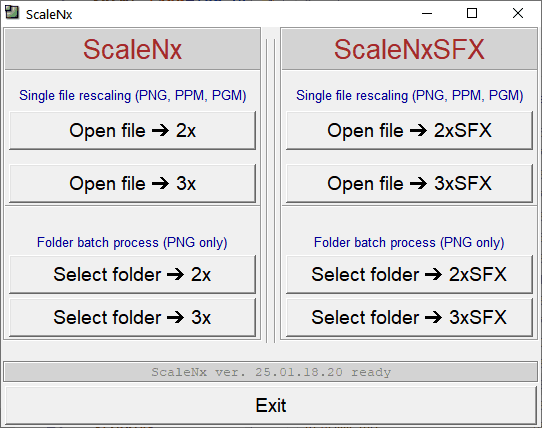
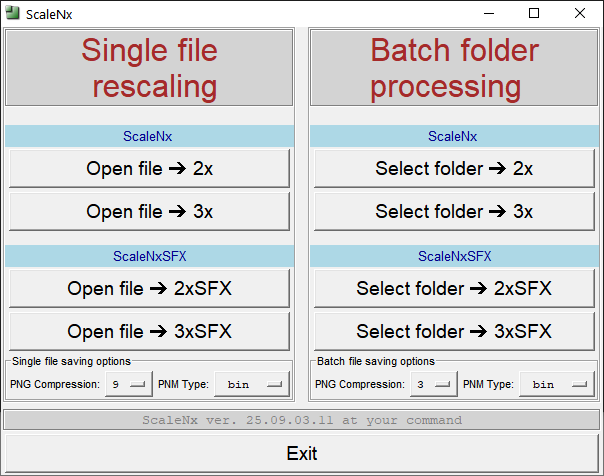
update updated

diff --git a/scalenx.html b/scalenx.html
@@ -20,14 +20,14 @@
         <h1 class='darkbg'>ScaleNx</h1>
         <h2 class='lightbg'>Scale2x, Scale3x, Scale2xSFX and Scale3xSFX image scaling in pure Python</h2>
         <div class='lightbg justborder'>
-            <p><a href='https://www.scale2x.it/algorithm'>Scale2x and Scale3x algorithms</a>Scale2x and Scale3x algorithms (sometimes referred to as AdvMAME2x and AdvMAME3x) were initially developed by <a href='https://www.scale2x.it/'>Andrea Mazzoleni</a> for scaling up small pixel graphics like game sprites and icons without introducing new colors and blurring contrast edges. That's what it was invented for, and nothing else.</p>
+            <p><a href='https://www.scale2x.it/algorithm'>Scale2x and Scale3x algorithms</a> (sometimes referred to as AdvMAME2x and AdvMAME3x) were initially developed by <a href='https://www.scale2x.it/'>Andrea Mazzoleni</a> for scaling up small pixel graphics like game sprites and icons without introducing new colors and blurring contrast edges. That's what it was invented for, and nothing else.</p>
             <p>Later on, <a href='https://web.archive.org/web/20160527015550/https://libretro.com/forums/archive/index.php?t-1655.html'>Scale2xSFX and Scale3xSFX</a> were introduced for the same goal, providing different diagonals rendering and eliminating artifacts initial ScaleNx produce on some patterns.</p>
             <div class='center'><img src='imgscalenx\diag3sfx.png' width='512' height='270' class='justborder center' style='padding: 1px;'
                 alt='Scale3xSFX example' title='Example of Scale3xSFX run three times'>
                 <p class='center'>Example of consecutive upscaling with Scale3xSFX trice.</p><p class='center small'>As can be seen above, Scale3xSFX keeps image sharp and tries to keep lines straight and accurate.<br>Keep in mind that image was increased 3*3*3 = 27&nbsp;times, meaning number of pixels increased 729&nbsp;times,<br>that is, almost all the resulting pixels are artificial.</p>
             </div>
             <p>However, it appears that ScaleNx may be successfully misused for absolutely different task: scaling up low-res text scans before OCR, and drawings before tracing them to vectors.</p>
-            <a href='https://github.com/Dnyarri/PixelArtScaling'><img src='imgscalenx/guismall.png' height='214' width='271' alt='ScaleNx module and program at GitHub' title='Main ScaleNx application' class='floatright'></a>
+            <a href='https://github.com/Dnyarri/PixelArtScaling'><img src='imgscalenx/guismall.png' height='238' width='302' alt='ScaleNx module and program at GitHub' title='Main ScaleNx application' class='floatright'></a>
             <p>With that in mind I created pure Python implementation of ScaleNx algorithms, which can be <a href='https://github.com/Dnyarri/PixelArtScaling' class='git'>downloaded from GitHub</a>. By saying &laquo;pure Python&raquo; I mean it - it doesn't even use bytearrays, only lists of lists of lists. Consider it a spiritual practice or whatever. You can download it as fully functional application, as well as &laquo;ScaleNx&raquo; module to import into your software and/or just to laugh at it.</p>
             <p>ScaleNx package includes suitable human-ready GUI shell, not surprisingly called ScaleNxGUI.py, providing easy launch of single PNG, PPM or PGM (PBM support is limited to reading only, result may be saved to another format like PNG) file rescaling procedure or batch rescaling of all images (in forementioned formats) in chosen folder and subfolders. Note that batch processing uses asynchronous multiprocessing, greatly reducing run time for a price of devouring next to 100% of CPU power, taking RAM for several images simultaneously, and rendering GUI rather unresponsive, looking like it hung up. Don't worry, it can't hang up, it can only possibly crash when trying to process really huge images (although for most recent version I yet have to see it).</p>
             <p>Needless to say, PNG support in ScaleNxGUI is provided with <a href='https://gitlab.com/drj11/pypng'>PyPNG</a>, and PPM and PGM support with <a href='https://pypi.org/project/PyPNM/'>PyPNM</a>; both are pure Python modules, thus making the whole program quite cross-platform. There is even Python&nbsp;3.4-compatible build (see below), successfully tested under Windows&nbsp;XP.</p>
@@ -58,11 +58,11 @@
             </table>
         </div>
         <div class='lightbg justborder cols512'>
-            <p><span class='red'><b>Update:</b></span> - In <a href='https://github.com/Dnyarri/PixelArtScaling/releases/tag/25.09.03.11'>main ScaleNx version&nbsp;25.09.03.11</a> and it's Python&nbsp;3.4 companion <a href='https://github.com/Dnyarri/PixelArtScaling/releases/tag/25.09.03.34'>version&nbsp;25.09.03.34</a> PNG compression and PPM/PGM type (binary or ascii) settings may be configured via GUI option menus and saved by Ctrl+Clicking on info bar as JSON "scalenx.ini" file in your user directory (directory address get copied to clipboard so you may paste it into your file manager and instantly get right to this directory, wherever it is). File may be edited with any text editor, and loaded back to ScaleNc with Alt+Click to info bar (for toads in dementia all these hints appear on mouse over info bar).</p>
+            <p><span class='red'><b>Update:</b></span> - In <a href='https://github.com/Dnyarri/PixelArtScaling/releases/tag/25.09.03.11'>main ScaleNx version&nbsp;25.09.03.11</a> and it's Python&nbsp;3.4 companion <a href='https://github.com/Dnyarri/PixelArtScaling/releases/tag/25.09.03.34'>version&nbsp;25.09.03.34</a> PNG compression and PPM/PGM type (binary or ascii) settings may be configured via GUI option menus and saved by Ctrl+Clicking on info bar as JSON "scalenx.ini" file in your user directory (directory address get copied to clipboard so you may paste it into your file manager and instantly get right to this directory, wherever it is). File may be edited with any text editor, and loaded back to ScaleNc with Alt+Click to info bar (for toads and lesser species in dementia all these hints appear on mouse over info bar).</p>
             <p>Speaking of dementia, version 25.08.22.34 was intentionally downgraded from <i>pathlib</i> to <i>os</i>, making it even more compatible with old Python version. Now you can read the Source and see how ladies were laid and recursive directory reading was made before Path.rglob was introduced.</p>
-            <p>Both <i>main</i> and <i>.py34</i> versions are relinked with newest <a href='pypnm.html'>PyPNM version&nbsp;2</a>, providing considerable memory usage saving while working with PPM and PGM files.</p>
-            <p><span class='red'><b>Previously on ScaleNx:</b></span>Version 25.02.09.18 of main program have no change in ScaleNx module but is relinked with updated version of <a href='https://dnyarri.github.io/pypnm.html'>PyPNM</a> module providing per row file writing, thus reducing memory usage; <a href='https://gitlab.com/drj11/pypng'>PyPNG</a> data exchange changed to row generators thus making memory usage as small as possible with this format.</p>
-            <p>On my rather old notebook main ScaleNxGUI program appeared to be able to upscale 8224x8224&nbsp;px RGB image with Scale2x and Scale2xSFX up to 16448x16448&nbsp;px, and then successfully save the result as both PNG and PPM. Considering the fact that resulting image will be something like 1.4x1.4&nbsp;meters when printed at 300&nbsp;ppi, I assume that further experiments with larger images on my notebook may raise doubts in my formally confirmed &laquo;mentally sane&raquo; status.</p>
+            <p>Both <i>main</i> and <i>.py34</i> versions are relinked with newest <a href='pypnm.html'>PyPNM version&nbsp;2</a>, providing considerable memory usage reduction while working with PPM and PGM files.</p>
+            <p><span class='red'><b>Previously on ScaleNx:</b></span> Version 25.02.09.18 of main program have no change in ScaleNx module but is relinked with updated version of <a href='https://dnyarri.github.io/pypnm.html'>PyPNM</a> module providing per row file writing, thus reducing memory usage; <a href='https://gitlab.com/drj11/pypng'>PyPNG</a> data exchange changed to row generators thus making memory usage as small as possible with this format.</p>
+            <p>On my rather old notebook main ScaleNxGUI program appeared to be able to upscale 8224x8224&nbsp;px RGB image with Scale2x and Scale2xSFX up to 16448x16448&nbsp;px, and then successfully save the result as both PNG and PPM. Considering the fact that resulting image will occupy <i>ca.</i>&nbsp;1.4x1.4&nbsp;meters when printed at 300&nbsp;ppi, I assume that further scaling up the experiments with larger images on my notebook may raise doubts in my formally confirmed &laquo;mentally sane&raquo; status.</p>
             <p>In version 25.02.01 FIR optimization of Scale2x, Scale3x, Scale2xSFX and Scale3xSFX performed, speed gain is in range from <i>ca.</i> 15% for Scale2x to <i>ca.</i> 50% for the others (since Scale2x work on minimal kernel already, there's not much room for further list read access reduction, therefore speed increase is minimal).</p>
             <p><span class='red'><b>For Windows users</b></span>, compiled <a href='https://github.com/Dnyarri/PixelArtScaling/releases/latest' class='git'>ScaleNxGUI32.exe for Windows&nbsp;XP 32&nbsp;bit and  ScaleNxGUI64.exe for Windows&nbsp;10 64&nbsp;bit are available for download at newest release page</a>, what as to other platforms, since the program is pure Python and quite self-contained, release source is supposed to work with any current canonic Python installation right out of the box.</p>
         </div>

diff --git a/pypnm.html b/pypnm.html
@@ -26,13 +26,13 @@
                 <li>unwillingness of many software developers to provide any good support for simple and open format. It took years for almighty Adobe Photoshop developers to include PNM module in distribution rather than count on third-party developers, and surely (see above) they used this chance to implement their own unusual separator scheme nobody else uses. What as to PNM support in Python, say, Pillow... sorry, I promised not to discuss Pillow anywhere ladies and children are allowed to read it.</li>
             </ul>
             <p>As a result, novice Python user (like me) may find it difficult to get reliable input/output modules for PPM and PGM image formats; therefore current PyPNM package was developed, combining input/output functions for 8-bits and 16-bits per channel binary and ascii PGM and PPM files, <i>i.e.</i> P2, P5, P3 and P6 PNM file types. P1 and P4 (1&nbsp;bit) PBM formats are supported only for reading.</p>
-            <p><span class='red'>PyPNM key functionality</span> comprise:</p>
+            <p><span class='red'><b>PyPNM key functionality</span></b> comprise:</p>
             <ul>
                 <li>conversion of in-memory image representation as 3D nested list into PNM-like byte structure for easy <span class='red'><b>preview</b></span> with Tkinter PhotoImage(data=...) method;</li>
                 <li><span class='red'><b>reading</b></span> PPM, PGM and PBM files from disk into image representation as 3D nested list;</li>
                 <li><span class='red'><b>writing</b></span> image representation as 3D nested list to PPM or PGM file on disk.</li>
             </ul>
-            <p style='font-size: 10pt; margin: 6pt 24pt;'><i>(Interlude start)</i> Actually what I needed was small and simple facility for displaying image-like data for image editing/filtering applications like &laquo;Averager&raquo; from <a href='povthread.html'>POVThread</a>. Yes, I want to be able to write image filter in Python and view result without huge extra packages. Using Tkinter with PPM/PGM looked like simplest solution, so I created some module for turning nested 3D lists to PPM-like bytes structures in memory. Since it required learning PNM specs anyway, I decided to add PPM/PGM files reading and writing on top of that. <i>Etc.</i>, as Kurt Vonnegut kept saying. <i>(Interlude end)</i></p>
+            <p style='font-size: 10pt; margin: 6pt 24pt;'><i>(Interlude start)</i> Actually what I needed was small and simple facility for displaying image-like data for image editing/filtering applications like <a href='povthread.html#averager'>&laquo;Averager&raquo;</a>. Yes, I want to be able to write image filter in Python and view result without huge extra packages. Using Tkinter with PPM/PGM looked like simplest solution, so I created some module for turning nested 3D lists to PPM-like bytes structures in memory. Since it required learning PNM specs anyway, I decided to add PPM/PGM files reading and writing on top of that. <i>Etc.</i>, as Kurt Vonnegut kept saying. <i>(Interlude end)</i></p>
             <p>You may easily acquire PyPNM module either from Github or from PyPI and use it absolutely free.</p>
             <table cols='3' class='justborder lighter' style='margin: 12pt 24pt 24pt;'>
                 <thead style='display: table-header-group'>
@@ -44,12 +44,12 @@
                 </thead>
                 <tbody>
                 <tr style='vertical-align: top;'>
-                    <td style='border-top: 4px double #00000080;'><p style='text-align: left;'>Current version<br>(Python&nbsp;3.11 and above) <br><b>1.17.9.2</b></p></td>
+                    <td style='border-top: 4px double #00000080;'><p style='text-align: left;'>Current version<br>(Python&nbsp;3.11 and above) <br><b>2.21.2.2</b></p></td>
                     <td style='border-top: 4px double #00000080;'><p style='text-align: left;'><a href='https://github.com/Dnyarri/PyPNM' class='git'>PyPNM main at Github</a></p></td>
                     <td style='border-top: 4px double #00000080;'><p>PyPNM module and sample viewer application, <br>illustrating all reading, displaying and writing functions in action.</p></td>
                 </tr>
                 <tr style='vertical-align: top;'>
-                    <td rowspan='2' style='border-top: 4px double #00000080;'><p style='text-align: left;'>Python&nbsp;3.4 compatible<br>(tested under Windows&nbsp;XP) <br><b>1.17.9.34.post2</b></p></td>
+                    <td rowspan='2' style='border-top: 4px double #00000080;'><p style='text-align: left;'>Python&nbsp;3.4 compatible<br>(tested under Windows&nbsp;XP) <br><b>2.21.2.34</b></p></td>
                     <td style='border-top: 4px double #00000080;'><p style='text-align: left;'><a href='https://github.com/Dnyarri/PyPNM/tree/py34/' class='git'>PyPNM py34 at Github</a></p></td>
                     <td style='border-top: 4px double #00000080;'><p>PyPNM module and sample viewer application, <br>illustrating all reading, displaying and writing functions in action. Viewer in .34 version include <a href='https://gitlab.com/drj11/pypng'>PNG</a> support which is not a part of PyPNM and included here just because it's a rare case of format support for Python&nbsp;3.4.</p></td>
                 </tr>
@@ -59,12 +59,19 @@
                 </tr>
                 </tbody>
             </table>
-            <p><span class='red'><b>Good news everyone!</b></span> <a href='https://github.com/Dnyarri/PyPNM'><b>PyPNM updated to version&nbsp;2</b></a>.</p>
-            <p>This major update includes numerous measures aimed toward resource saving: using <span class='pre'>mmap</span> instead of direct file reading and generators instead of intermediate lists.</p>
-            <p>While module was completely rewritten, input and output types and data structure remain the same, so versions 2.21.2.* "Victory II" are completely interchangeable with 1.17.9.* "Victory"./</p>
-            <p>In <b>ver.&nbsp;1.17.9.34 &laquo;Victory&raquo;</b> (maximum compatibility) forced 8&nbsp;bit preview for 16&nbsp;bit images implemented when running under old Python versions (prior 3.11).</p>
+            <div class='cols512 justborder lighter'>
+            <h3>Recent updates</h3>
+            <p><span class='red'><b>Good news everyone!</b></span> <span class='git'><a href='https://github.com/Dnyarri/PyPNM'><b>PyPNM updated to version&nbsp;2</b></a>.</span></p>
+            <p>This major update includes numerous measures focused on reducing resource usage:</p>
+            <ul>
+                <li>using <span class='pre'>mmap</span> instead of direct file reading;</li>
+                <li>using generators instead of intermediate lists wherever possible.</li>
+            </ul>
+            <p>Note that although module was completely rewritten, input and output types and data structure remain the same, so versions 2.21.2.* &laquo;Victory&nbsp;II&raquo; are completely interchangeable with 1.17.9.* &laquo;Victory&raquo;.</p>
+            <p><span class='red'><b>Previously on PyPNM:</b></span> In <b>ver.&nbsp;1.17.9.34 &laquo;Victory&raquo;</b> (maximum compatibility) forced 8&nbsp;bit preview for 16&nbsp;bit images implemented when running under old Python versions (prior 3.11).</p>
             <p>In ver.&nbsp;1.17.1.1 PNM export functions restructured to provide easy format switch. Backward compatibility maintained.</p>
-            <p>In ver.&nbsp;1.15.1.1 image viewing function updated to show LA and RGBA images over chessboard background (like Photoshop and GIMP). This mode requires enabling newly added option, which, in turn, requires RTFM. In ver.&nbsp;1.14.8.19 memory usage for writing PPM and PGM files greatly reduced. Binary files (P6 and P5 correspondingly) are written per image row (which is considered as reasonable tradeoff between memory usage and disk thrashing), ASCII files (P3 and P2) are written per sample (which is minimal memory using scenario).</p>
+            <p>In ver.&nbsp;1.15.1.1 image viewing function updated to show LA and RGBA images over chessboard background (like Photoshop and GIMP). This mode requires enabling newly added option, which, in turn, requires <a href='https://dnyarri.github.io/pypnm/pypnm.pdf'>RTFM</a>. In ver.&nbsp;1.14.8.19 memory usage for writing PPM and PGM files greatly reduced. Binary files (P6 and P5 correspondingly) are written per image row (which is considered as reasonable tradeoff between memory usage and disk thrashing), ASCII files (P3 and P2) are written per sample (which is minimal memory using scenario).</p>
+            </div>
         </div>
         <h3 class='lightbg' style='max-width: 300pt;'>Format compatibility</h3>
         <div class='lightbg justborder' style='max-width: 420pt;'>
